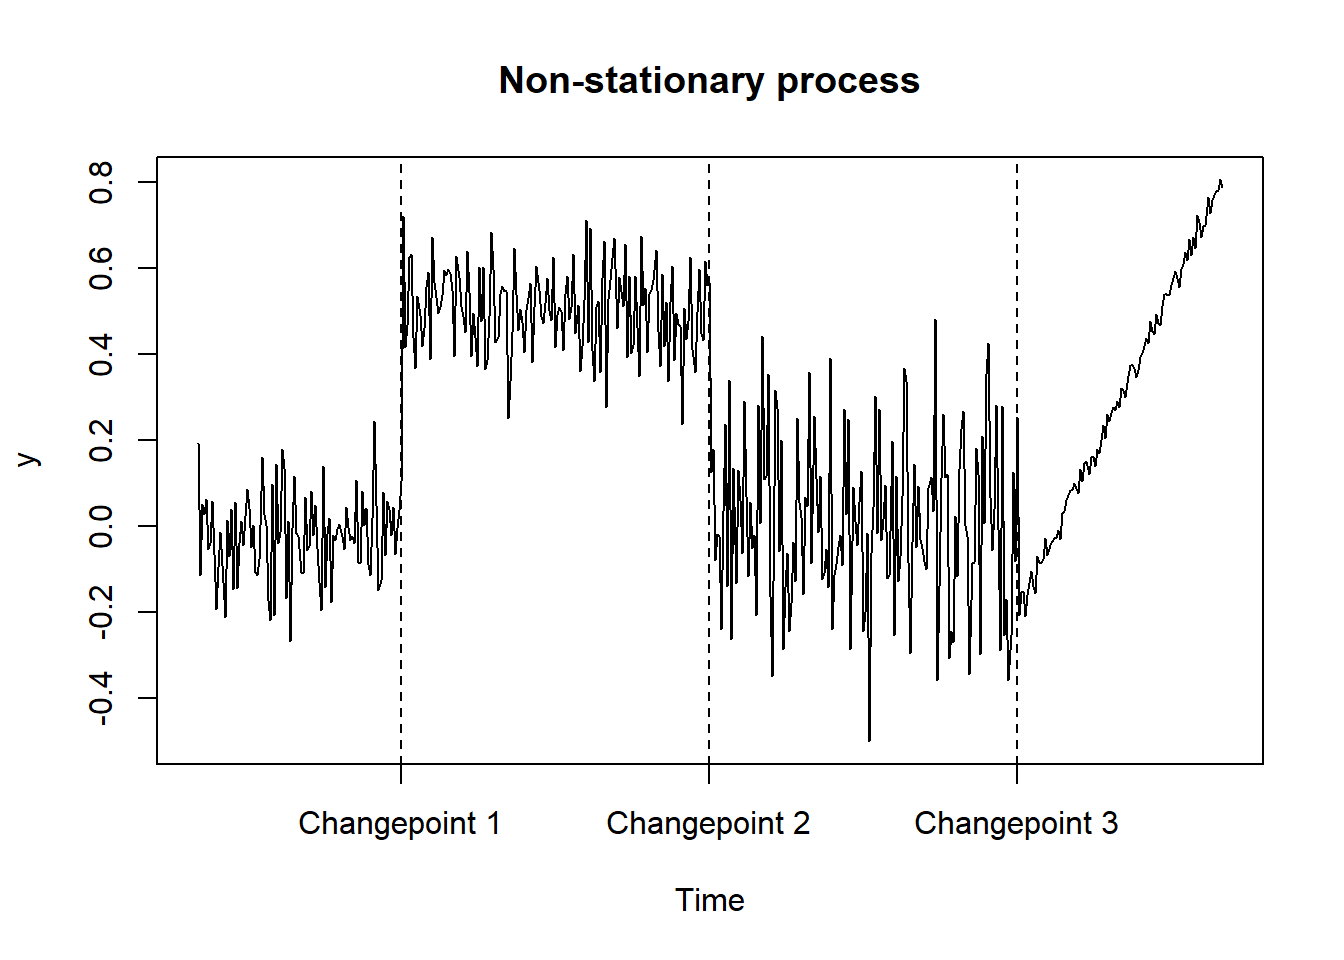
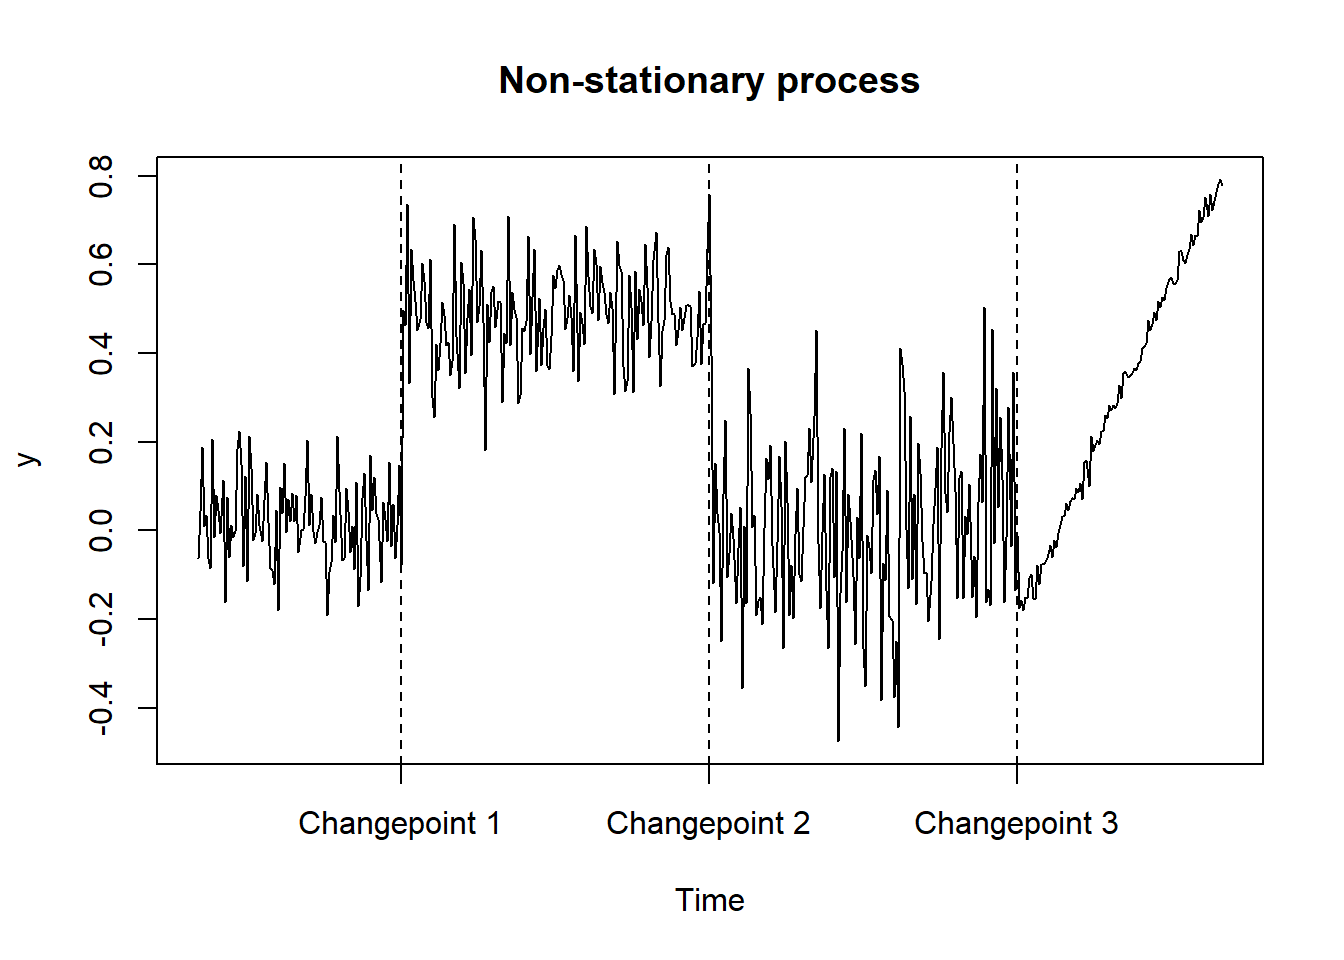
fixed ARMA-TGARCH

diff --git a/docs/session07.html b/docs/session07.html
@@ -217,7 +217,7 @@ code span.wa { color: #60a0b0; font-weight: bold; font-style: italic; } /* Warni
 \begin{aligned}
 y_t &amp;= c + \phi y_{t-1} + \theta \varepsilon_{t-1} + \varepsilon_t \\
 \varepsilon_t &amp;= \sigma_t z_t \\
-\sigma^2_t &amp;= \omega + \alpha y_{t-1}^2 + \beta \sigma^2_{t-1} + \gamma y_{t-1}^2 \mathbb{1}_{y_{t-1}&lt;0}
+\sigma^2_t &amp;= \omega + \alpha \varepsilon_{t-1}^2 + \beta \sigma^2_{t-1} + \gamma \varepsilon_{t-1}^2 \mathbb{1}_{\varepsilon_{t-1}&lt;0}
 \end{aligned}
 \]</span></p>
 <p>Throughout this session, we consider <span class="math inline">\(z_t \sim \mathcal{N}(0,1)\)</span> and we estimate the model via maximum-likelihood. Let <span class="math inline">\(I_t = \{y_1, \dots, y_t, \varepsilon_1, \dots, \varepsilon_t, \sigma_1, \dots, \sigma_t\}\)</span>. The log-likelihood of the model is:</p>
@@ -244,12 +244,11 @@ y_t &amp;= c + \phi y_{t-1} + \theta \varepsilon_{t-1} + \varepsilon_t \\
 <span id="cb105-17"><a href="session07.html#cb105-17" tabindex="-1"></a>y     <span class="ot">&lt;-</span> <span class="fu">c</span>(sigma2[<span class="dv">1</span>]<span class="sc">*</span>z[<span class="dv">1</span>], <span class="fu">rep</span>(<span class="cn">NA</span>, t_max))</span>
 <span id="cb105-18"><a href="session07.html#cb105-18" tabindex="-1"></a><span class="cf">for</span> (t <span class="cf">in</span> <span class="dv">2</span><span class="sc">:</span>(t_max<span class="sc">+</span><span class="dv">1</span>)) {</span>
 <span id="cb105-19"><a href="session07.html#cb105-19" tabindex="-1"></a>  <span class="fu">set.seed</span>(t<span class="sc">*</span><span class="dv">212</span>) <span class="co"># for reproducibility</span></span>
-<span id="cb105-20"><a href="session07.html#cb105-20" tabindex="-1"></a>  <span class="co"># sigma2[t]  &lt;- omega + alpha*y[t-1]^2 + beta*sigma2[t-1] + gamma*y[t-1]^2 + gamma*y[t-1]^2*(y[t-1]&lt;0)</span></span>
-<span id="cb105-21"><a href="session07.html#cb105-21" tabindex="-1"></a>  sigma2[t]  <span class="ot">&lt;-</span> omega <span class="sc">+</span> alpha<span class="sc">*</span>y[t<span class="dv">-1</span>]<span class="sc">^</span><span class="dv">2</span> <span class="sc">+</span> beta<span class="sc">*</span>sigma2[t<span class="dv">-1</span>] <span class="sc">+</span> gamma<span class="sc">*</span>y[t<span class="dv">-1</span>]<span class="sc">^</span><span class="dv">2</span><span class="sc">*</span>(y[t<span class="dv">-1</span>]<span class="sc">&lt;</span><span class="dv">0</span>)</span>
-<span id="cb105-22"><a href="session07.html#cb105-22" tabindex="-1"></a>  epsilon[t] <span class="ot">&lt;-</span> sigma2[t]<span class="sc">*</span>z[t]</span>
-<span id="cb105-23"><a href="session07.html#cb105-23" tabindex="-1"></a>  y[t]       <span class="ot">&lt;-</span> c <span class="sc">+</span> phi<span class="sc">*</span>y[t<span class="dv">-1</span>] <span class="sc">+</span> theta<span class="sc">*</span>epsilon[t<span class="dv">-1</span>] <span class="sc">+</span> epsilon[t]</span>
-<span id="cb105-24"><a href="session07.html#cb105-24" tabindex="-1"></a>}</span>
-<span id="cb105-25"><a href="session07.html#cb105-25" tabindex="-1"></a>y <span class="ot">&lt;-</span> y[<span class="dv">50</span><span class="sc">:</span>t_max]</span></code></pre></div>
+<span id="cb105-20"><a href="session07.html#cb105-20" tabindex="-1"></a>  sigma2[t]  <span class="ot">&lt;-</span> omega <span class="sc">+</span> alpha<span class="sc">*</span>epsilon[t<span class="dv">-1</span>]<span class="sc">^</span><span class="dv">2</span> <span class="sc">+</span> beta<span class="sc">*</span>sigma2[t<span class="dv">-1</span>] <span class="sc">+</span> gamma<span class="sc">*</span>epsilon[t<span class="dv">-1</span>]<span class="sc">^</span><span class="dv">2</span><span class="sc">*</span>(epsilon[t<span class="dv">-1</span>]<span class="sc">&lt;</span><span class="dv">0</span>)</span>
+<span id="cb105-21"><a href="session07.html#cb105-21" tabindex="-1"></a>  epsilon[t] <span class="ot">&lt;-</span> sigma2[t]<span class="sc">*</span>z[t]</span>
+<span id="cb105-22"><a href="session07.html#cb105-22" tabindex="-1"></a>  y[t]       <span class="ot">&lt;-</span> c <span class="sc">+</span> phi<span class="sc">*</span>y[t<span class="dv">-1</span>] <span class="sc">+</span> theta<span class="sc">*</span>epsilon[t<span class="dv">-1</span>] <span class="sc">+</span> epsilon[t]</span>
+<span id="cb105-23"><a href="session07.html#cb105-23" tabindex="-1"></a>}</span>
+<span id="cb105-24"><a href="session07.html#cb105-24" tabindex="-1"></a>y <span class="ot">&lt;-</span> y[<span class="dv">50</span><span class="sc">:</span>t_max]</span></code></pre></div>
 <div class="sourceCode" id="cb106"><pre class="sourceCode r"><code class="sourceCode r"><span id="cb106-1"><a href="session07.html#cb106-1" tabindex="-1"></a><span class="co"># plot simulated series</span></span>
 <span id="cb106-2"><a href="session07.html#cb106-2" tabindex="-1"></a><span class="fu">plot.ts</span>(y)</span></code></pre></div>
 <p><img src="_main_files/figure-html/unnamed-chunk-76-1.png" width="672" /></p>
@@ -277,11 +276,11 @@ y_t &amp;= c + \phi y_{t-1} + \theta \varepsilon_{t-1} + \varepsilon_t \\
 <span id="cb108-19"><a href="session07.html#cb108-19" tabindex="-1"></a>  <span class="co"># for loop calculating one-step-ahead</span></span>
 <span id="cb108-20"><a href="session07.html#cb108-20" tabindex="-1"></a>  <span class="cf">for</span> (t <span class="cf">in</span> <span class="dv">2</span><span class="sc">:</span>t_max){</span>
 <span id="cb108-21"><a href="session07.html#cb108-21" tabindex="-1"></a>    eps[t]  <span class="ot">&lt;-</span> y[t] <span class="sc">-</span> c <span class="sc">-</span> phi<span class="sc">*</span>y[t<span class="dv">-1</span>] <span class="sc">-</span> theta<span class="sc">*</span>eps[t<span class="dv">-1</span>]</span>
-<span id="cb108-22"><a href="session07.html#cb108-22" tabindex="-1"></a>    sig2[t] <span class="ot">&lt;-</span> omega <span class="sc">+</span> alpha<span class="sc">*</span>y[t<span class="dv">-1</span>]<span class="sc">^</span><span class="dv">2</span> <span class="sc">+</span> beta<span class="sc">*</span>sig2[t<span class="dv">-1</span>] <span class="sc">+</span> gamma<span class="sc">*</span>y[t<span class="dv">-1</span>]<span class="sc">^</span><span class="dv">2</span><span class="sc">*</span>(y[t<span class="dv">-1</span>]<span class="sc">&lt;</span><span class="dv">0</span>)</span>
+<span id="cb108-22"><a href="session07.html#cb108-22" tabindex="-1"></a>    sig2[t] <span class="ot">&lt;-</span> omega <span class="sc">+</span> alpha<span class="sc">*</span>eps[t<span class="dv">-1</span>]<span class="sc">^</span><span class="dv">2</span> <span class="sc">+</span> beta<span class="sc">*</span>sig2[t<span class="dv">-1</span>] <span class="sc">+</span> gamma<span class="sc">*</span>eps[t<span class="dv">-1</span>]<span class="sc">^</span><span class="dv">2</span><span class="sc">*</span>(eps[t<span class="dv">-1</span>]<span class="sc">&lt;</span><span class="dv">0</span>)</span>
 <span id="cb108-23"><a href="session07.html#cb108-23" tabindex="-1"></a>    z[t]    <span class="ot">&lt;-</span> eps[t]<span class="sc">/</span><span class="fu">sqrt</span>(sig2[t])</span>
 <span id="cb108-24"><a href="session07.html#cb108-24" tabindex="-1"></a>  }</span>
 <span id="cb108-25"><a href="session07.html#cb108-25" tabindex="-1"></a>  <span class="co"># loglik</span></span>
-<span id="cb108-26"><a href="session07.html#cb108-26" tabindex="-1"></a>  loglik <span class="ot">&lt;-</span>  <span class="sc">-</span> <span class="fu">sum</span>(<span class="fu">log</span>(sig2[<span class="dv">2</span><span class="sc">:</span>t_max])) <span class="sc">-</span> <span class="fu">sum</span>(eps[<span class="dv">2</span><span class="sc">:</span>t_max]<span class="sc">^</span><span class="dv">2</span><span class="sc">/</span>sig2[<span class="dv">2</span><span class="sc">:</span>t_max])  <span class="co"># *0.5 + constant terms </span></span>
+<span id="cb108-26"><a href="session07.html#cb108-26" tabindex="-1"></a>  loglik <span class="ot">&lt;-</span>  <span class="sc">-</span> <span class="fu">sum</span>(<span class="fu">log</span>(<span class="fu">sqrt</span>(sig2[<span class="dv">2</span><span class="sc">:</span>t_max]))) <span class="sc">-</span> <span class="fu">sum</span>(eps[<span class="dv">2</span><span class="sc">:</span>t_max]<span class="sc">^</span><span class="dv">2</span><span class="sc">/</span>sig2[<span class="dv">2</span><span class="sc">:</span>t_max])  <span class="co"># *0.5 + constant terms </span></span>
 <span id="cb108-27"><a href="session07.html#cb108-27" tabindex="-1"></a>  </span>
 <span id="cb108-28"><a href="session07.html#cb108-28" tabindex="-1"></a>  <span class="co"># output</span></span>
 <span id="cb108-29"><a href="session07.html#cb108-29" tabindex="-1"></a>  <span class="fu">return</span>(<span class="fu">list</span>(<span class="at">sig2   =</span> sig2, </span>
@@ -333,12 +332,12 @@ y_t &amp;= c + \phi y_{t-1} + \theta \varepsilon_{t-1} + \varepsilon_t \\
 <span id="cb112-4"><a href="session07.html#cb112-4" tabindex="-1"></a><span class="fu">round</span>(tab, <span class="dv">3</span>)</span></code></pre></div>
 <pre><code>##          MLE  true
 ## c      0.001  0.00
-## phi    0.831  0.85
-## theta -0.119 -0.10
-## omega  0.001  0.01
-## alpha  0.028  0.10
-## beta   0.736  0.85
-## gamma  0.009  0.05</code></pre>
+## phi    0.837  0.85
+## theta -0.121 -0.10
+## omega  0.010  0.01
+## alpha  0.010  0.10
+## beta   0.010  0.85
+## gamma  0.082  0.05</code></pre>
 </div>
 <div id="modeling-the-sp-500-volatility" class="section level2 hasAnchor" number="7.2">
 <h2><span class="header-section-number">7.2</span> Modeling the S&amp;P 500 volatility<a href="session07.html#modeling-the-sp-500-volatility" class="anchor-section" aria-label="Anchor link to header"></a></h2>
@@ -352,10 +351,10 @@ y_t &amp;= c + \phi y_{t-1} + \theta \varepsilon_{t-1} + \varepsilon_t \\
 <div class="sourceCode" id="cb115"><pre class="sourceCode r"><code class="sourceCode r"><span id="cb115-1"><a href="session07.html#cb115-1" tabindex="-1"></a><span class="do">## Compute MLE</span></span>
 <span id="cb115-2"><a href="session07.html#cb115-2" tabindex="-1"></a>mle_sp500 <span class="ot">&lt;-</span> <span class="fu">arma11tgarch11_mle</span>(d, startparams)</span></code></pre></div>
 <div class="sourceCode" id="cb116"><pre class="sourceCode r"><code class="sourceCode r"><span id="cb116-1"><a href="session07.html#cb116-1" tabindex="-1"></a>mle_sp500</span></code></pre></div>
-<pre><code>##           c         phi       theta       omega       alpha        beta 
-##  0.03314379  0.49055508 -0.53153704  0.16230434  0.01000000  0.87320296 
-##       gamma 
-##  0.19467830</code></pre>
+<pre><code>##             c           phi         theta         omega         alpha 
+##  0.0003244686  0.8959449229 -0.0037841937  0.1090527671  0.1442490502 
+##          beta         gamma 
+##  0.8394995899  0.0325027199</code></pre>
 <div class="sourceCode" id="cb118"><pre class="sourceCode r"><code class="sourceCode r"><span id="cb118-1"><a href="session07.html#cb118-1" tabindex="-1"></a><span class="do">## plot fitted values</span></span>
 <span id="cb118-2"><a href="session07.html#cb118-2" tabindex="-1"></a>filter_sp500 <span class="ot">&lt;-</span> <span class="fu">arma11tgarch11_filter</span>(d, mle_sp500)</span>
 <span id="cb118-3"><a href="session07.html#cb118-3" tabindex="-1"></a>eps  <span class="ot">&lt;-</span> filter_sp500<span class="sc">$</span>eps</span>
@@ -375,12 +374,13 @@ y_t &amp;= c + \phi y_{t-1} + \theta \varepsilon_{t-1} + \varepsilon_t \\
 <span id="cb118-17"><a href="session07.html#cb118-17" tabindex="-1"></a>upper_sp500     <span class="ot">&lt;-</span> fitted_sp500 <span class="sc">+</span> <span class="fl">1.96</span><span class="sc">*</span><span class="fu">sqrt</span>(sig2)</span>
 <span id="cb118-18"><a href="session07.html#cb118-18" tabindex="-1"></a>lower_sp500     <span class="ot">&lt;-</span> fitted_sp500 <span class="sc">-</span> <span class="fl">1.96</span><span class="sc">*</span><span class="fu">sqrt</span>(sig2)</span></code></pre></div>
 <div class="sourceCode" id="cb119"><pre class="sourceCode r"><code class="sourceCode r"><span id="cb119-1"><a href="session07.html#cb119-1" tabindex="-1"></a><span class="fu">plot.ts</span>(d, <span class="at">main =</span> <span class="st">&quot;S&amp;P 500 annualized growth rates&quot;</span>)</span>
-<span id="cb119-2"><a href="session07.html#cb119-2" tabindex="-1"></a><span class="fu">lines</span>(fitted_sp500, <span class="at">col =</span> <span class="st">&quot;steelblue&quot;</span>)</span>
-<span id="cb119-3"><a href="session07.html#cb119-3" tabindex="-1"></a><span class="fu">lines</span>(lower_sp500, <span class="at">col =</span> <span class="st">&quot;tomato&quot;</span>)</span>
-<span id="cb119-4"><a href="session07.html#cb119-4" tabindex="-1"></a><span class="fu">lines</span>(upper_sp500, <span class="at">col =</span> <span class="st">&quot;tomato&quot;</span>)</span>
+<span id="cb119-2"><a href="session07.html#cb119-2" tabindex="-1"></a><span class="fu">lines</span>(lower_sp500, <span class="at">col =</span> scales<span class="sc">::</span><span class="fu">alpha</span>(<span class="st">&quot;tomato&quot;</span>, <span class="fl">0.7</span>))</span>
+<span id="cb119-3"><a href="session07.html#cb119-3" tabindex="-1"></a><span class="fu">lines</span>(upper_sp500, <span class="at">col =</span> scales<span class="sc">::</span><span class="fu">alpha</span>(<span class="st">&quot;tomato&quot;</span>, <span class="fl">0.7</span>))</span>
+<span id="cb119-4"><a href="session07.html#cb119-4" tabindex="-1"></a><span class="fu">lines</span>(fitted_sp500, <span class="at">col =</span> <span class="st">&quot;steelblue&quot;</span>)</span>
 <span id="cb119-5"><a href="session07.html#cb119-5" tabindex="-1"></a><span class="fu">text</span>(<span class="at">x =</span> <span class="dv">2009</span>, <span class="at">y =</span> <span class="dv">30</span>,</span>
 <span id="cb119-6"><a href="session07.html#cb119-6" tabindex="-1"></a>     <span class="at">labels =</span> <span class="fu">paste0</span>(<span class="st">&quot;Observations outside CI: &quot;</span>, </span>
-<span id="cb119-7"><a href="session07.html#cb119-7" tabindex="-1"></a>                   <span class="fu">round</span>(<span class="fu">mean</span>((d <span class="sc">&gt;</span> upper_sp500) <span class="sc">|</span> (d <span class="sc">&lt;</span> lower_sp500)),<span class="dv">4</span>)<span class="sc">*</span><span class="dv">100</span>, <span class="st">&quot;%&quot;</span>))</span></code></pre></div>
+<span id="cb119-7"><a href="session07.html#cb119-7" tabindex="-1"></a>                   <span class="fu">round</span>(<span class="fu">mean</span>((d <span class="sc">&gt;</span> upper_sp500) <span class="sc">|</span> (d <span class="sc">&lt;</span> lower_sp500)),<span class="dv">4</span>)<span class="sc">*</span><span class="dv">100</span>, <span class="st">&quot;%&quot;</span>,</span>
+<span id="cb119-8"><a href="session07.html#cb119-8" tabindex="-1"></a>                   <span class="st">&quot;</span><span class="sc">\n</span><span class="st">(very conservative)&quot;</span>))</span></code></pre></div>
 <p><img src="_main_files/figure-html/unnamed-chunk-88-1.png" width="672" /></p>
 </div>
 <div id="exercises-4" class="section level2 hasAnchor" number="7.3">
@@ -410,7 +410,7 @@ r_t &amp;= \sigma^2_t z_t \\[1ex]
 \begin{aligned}
 y_t &amp;= c + \phi_1 y_{t-1} + \dots + \phi_p y_{t-p} + \theta_1 \varepsilon_{t-1} + \dots + \theta_q \varepsilon_{t-q} + \varepsilon_t \\
 \varepsilon_t &amp;= \sigma_t z_t \\
-\sigma^2_t &amp;= \omega + \alpha_1 y_{t-1}^2 + \dots + \alpha_r y_{t-r}^2 + \beta_1 \sigma^2_{t-1} + \dots + \beta_s \sigma^2_{t-s}
+\sigma^2_t &amp;= \omega + \alpha_1 \varepsilon_{t-1}^2 + \dots + \alpha_r \varepsilon_{t-r}^2 + \beta_1 \sigma^2_{t-1} + \dots + \beta_s \sigma^2_{t-s}
 \end{aligned}
 \]</span></p>
 <p>Derive the log-likelihood of the model under the assumption that <span class="math inline">\(z_t \sim \mathcal{N}(0, 1)\)</span>. Provide also the filtering procedure used to estimate the latent variables <span class="math inline">\(\varepsilon_t\)</span> and <span class="math inline">\(\sigma_t\)</span>.</p>
@@ -422,7 +422,7 @@ y_t &amp;= c + \phi_1 y_{t-1} + \dots + \phi_p y_{t-p} + \theta_1 \varepsilon_{t
 \begin{aligned}
 y_t &amp;= c + \phi y_{t-1} + \theta \varepsilon_{t-1} + \varepsilon_t \\
 \varepsilon_t &amp;= \sigma_t z_t \\
-\sigma^2_t &amp;= \omega + \alpha y_{t-1}^2 + \beta \sigma^2_{t-1} + \gamma y_{t-1}^2 \mathbb{1}_{y_{t-1}&lt;0}
+\sigma^2_t &amp;= \omega + \alpha \varepsilon_{t-1}^2 + \beta \sigma^2_{t-1} + \gamma \varepsilon_{t-1}^2 \mathbb{1}_{\varepsilon_{t-1}&lt;0}
 \end{aligned}
 \]</span></p>
 <p>Derive the log-likelihood of the model under the assumption that <span class="math inline">\(z_t \sim \mathcal{N}(0, 1)\)</span>. Provide also the filtering procedure used to estimate the latent variables <span class="math inline">\(\varepsilon_t\)</span> and <span class="math inline">\(\sigma_t\)</span>.</p>

diff --git a/docs/index.html b/docs/index.html
@@ -211,7 +211,7 @@ code span.wa { color: #60a0b0; font-weight: bold; font-style: italic; } /* Warni
 <div id="header">
 <h1 class="title">Financial Econometrics - Tutorials</h1>
 <p class="author"><em>Alessandro Ciancetta</em></p>
-<p class="date"><em>Last update: February 6, 2025</em></p>
+<p class="date"><em>Last update: February 28, 2025</em></p>
 </div>
 <div id="about" class="section level1 unnumbered hasAnchor">
 <h1>About<a href="index.html#about" class="anchor-section" aria-label="Anchor link to header"></a></h1>
